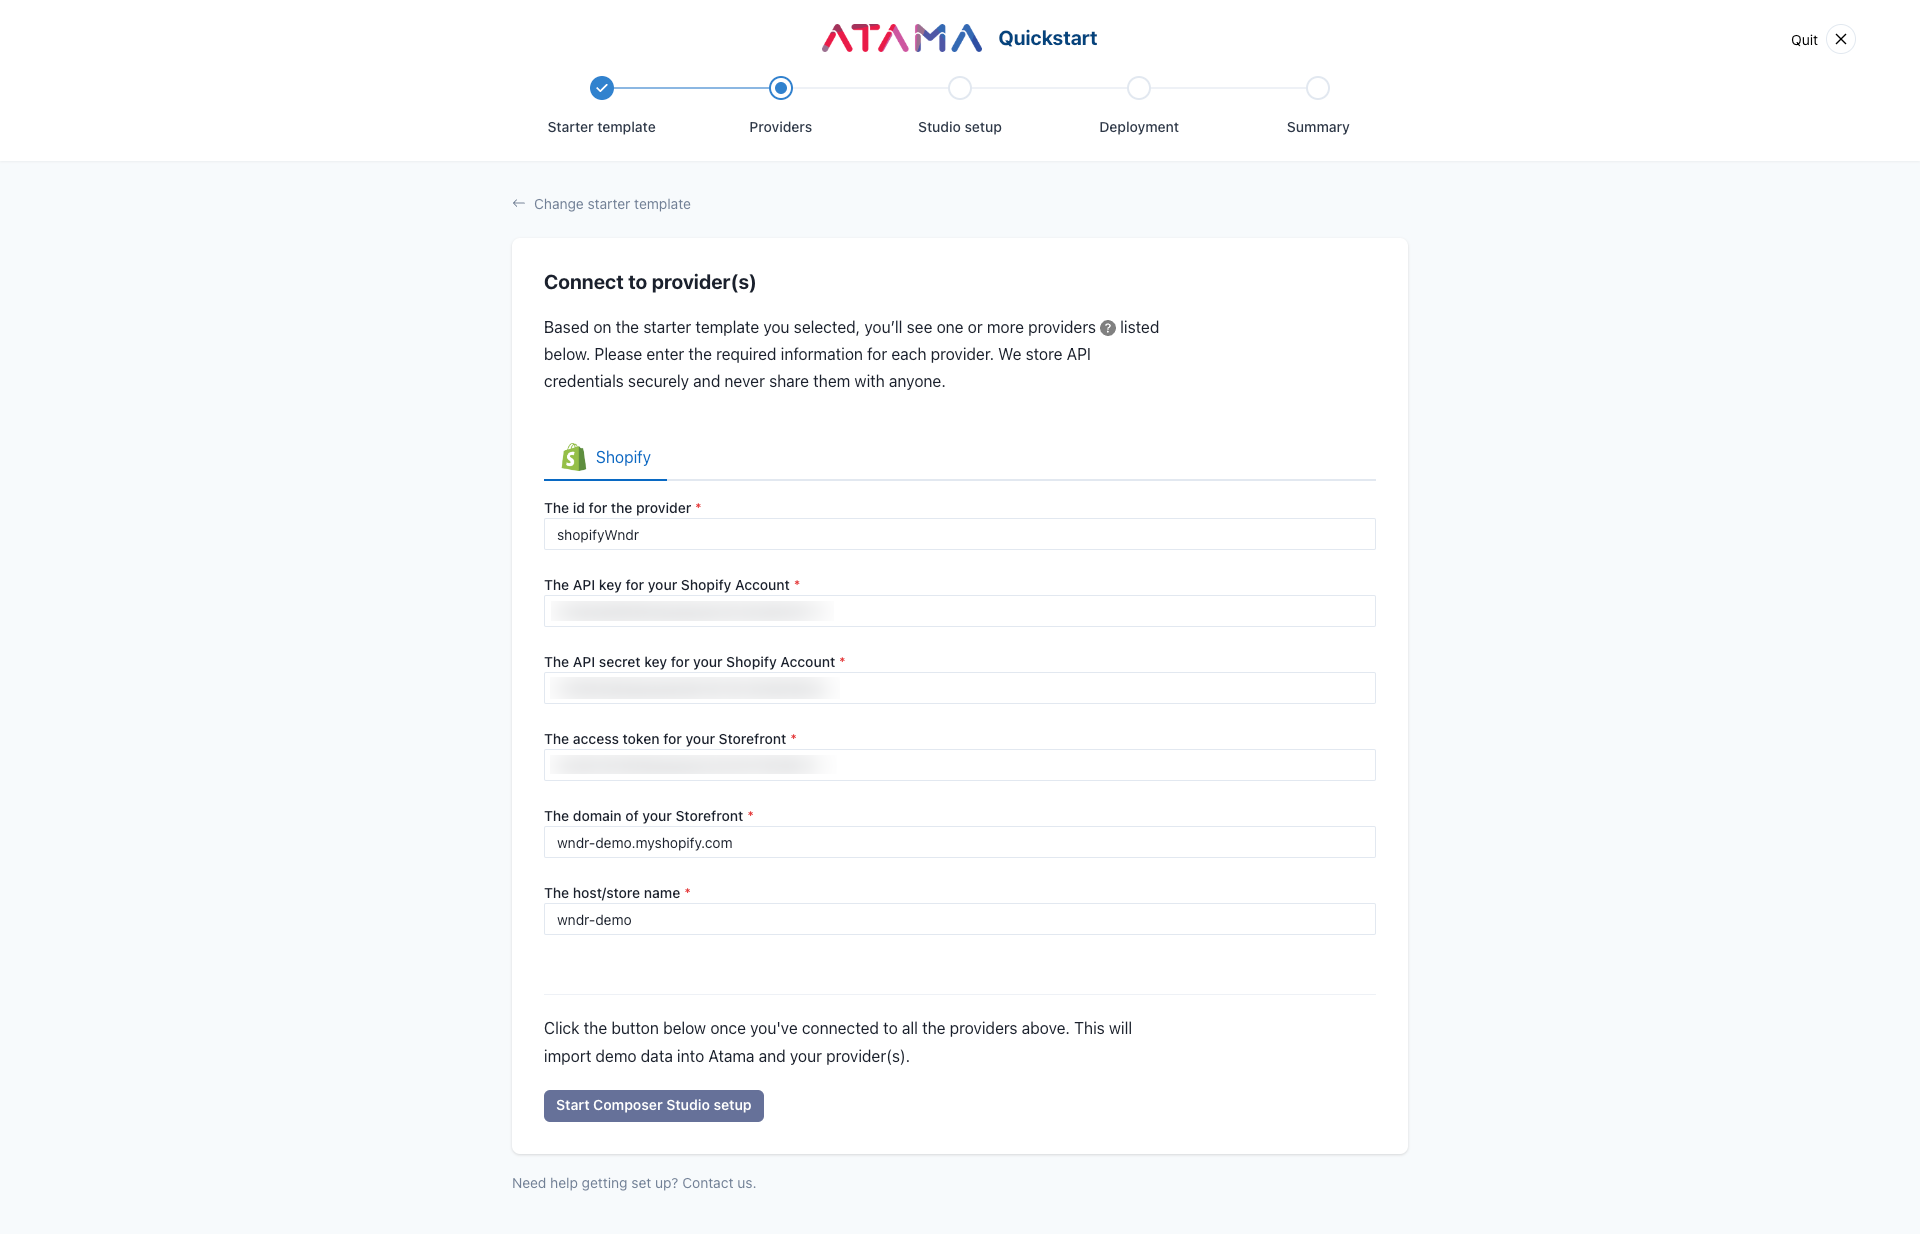
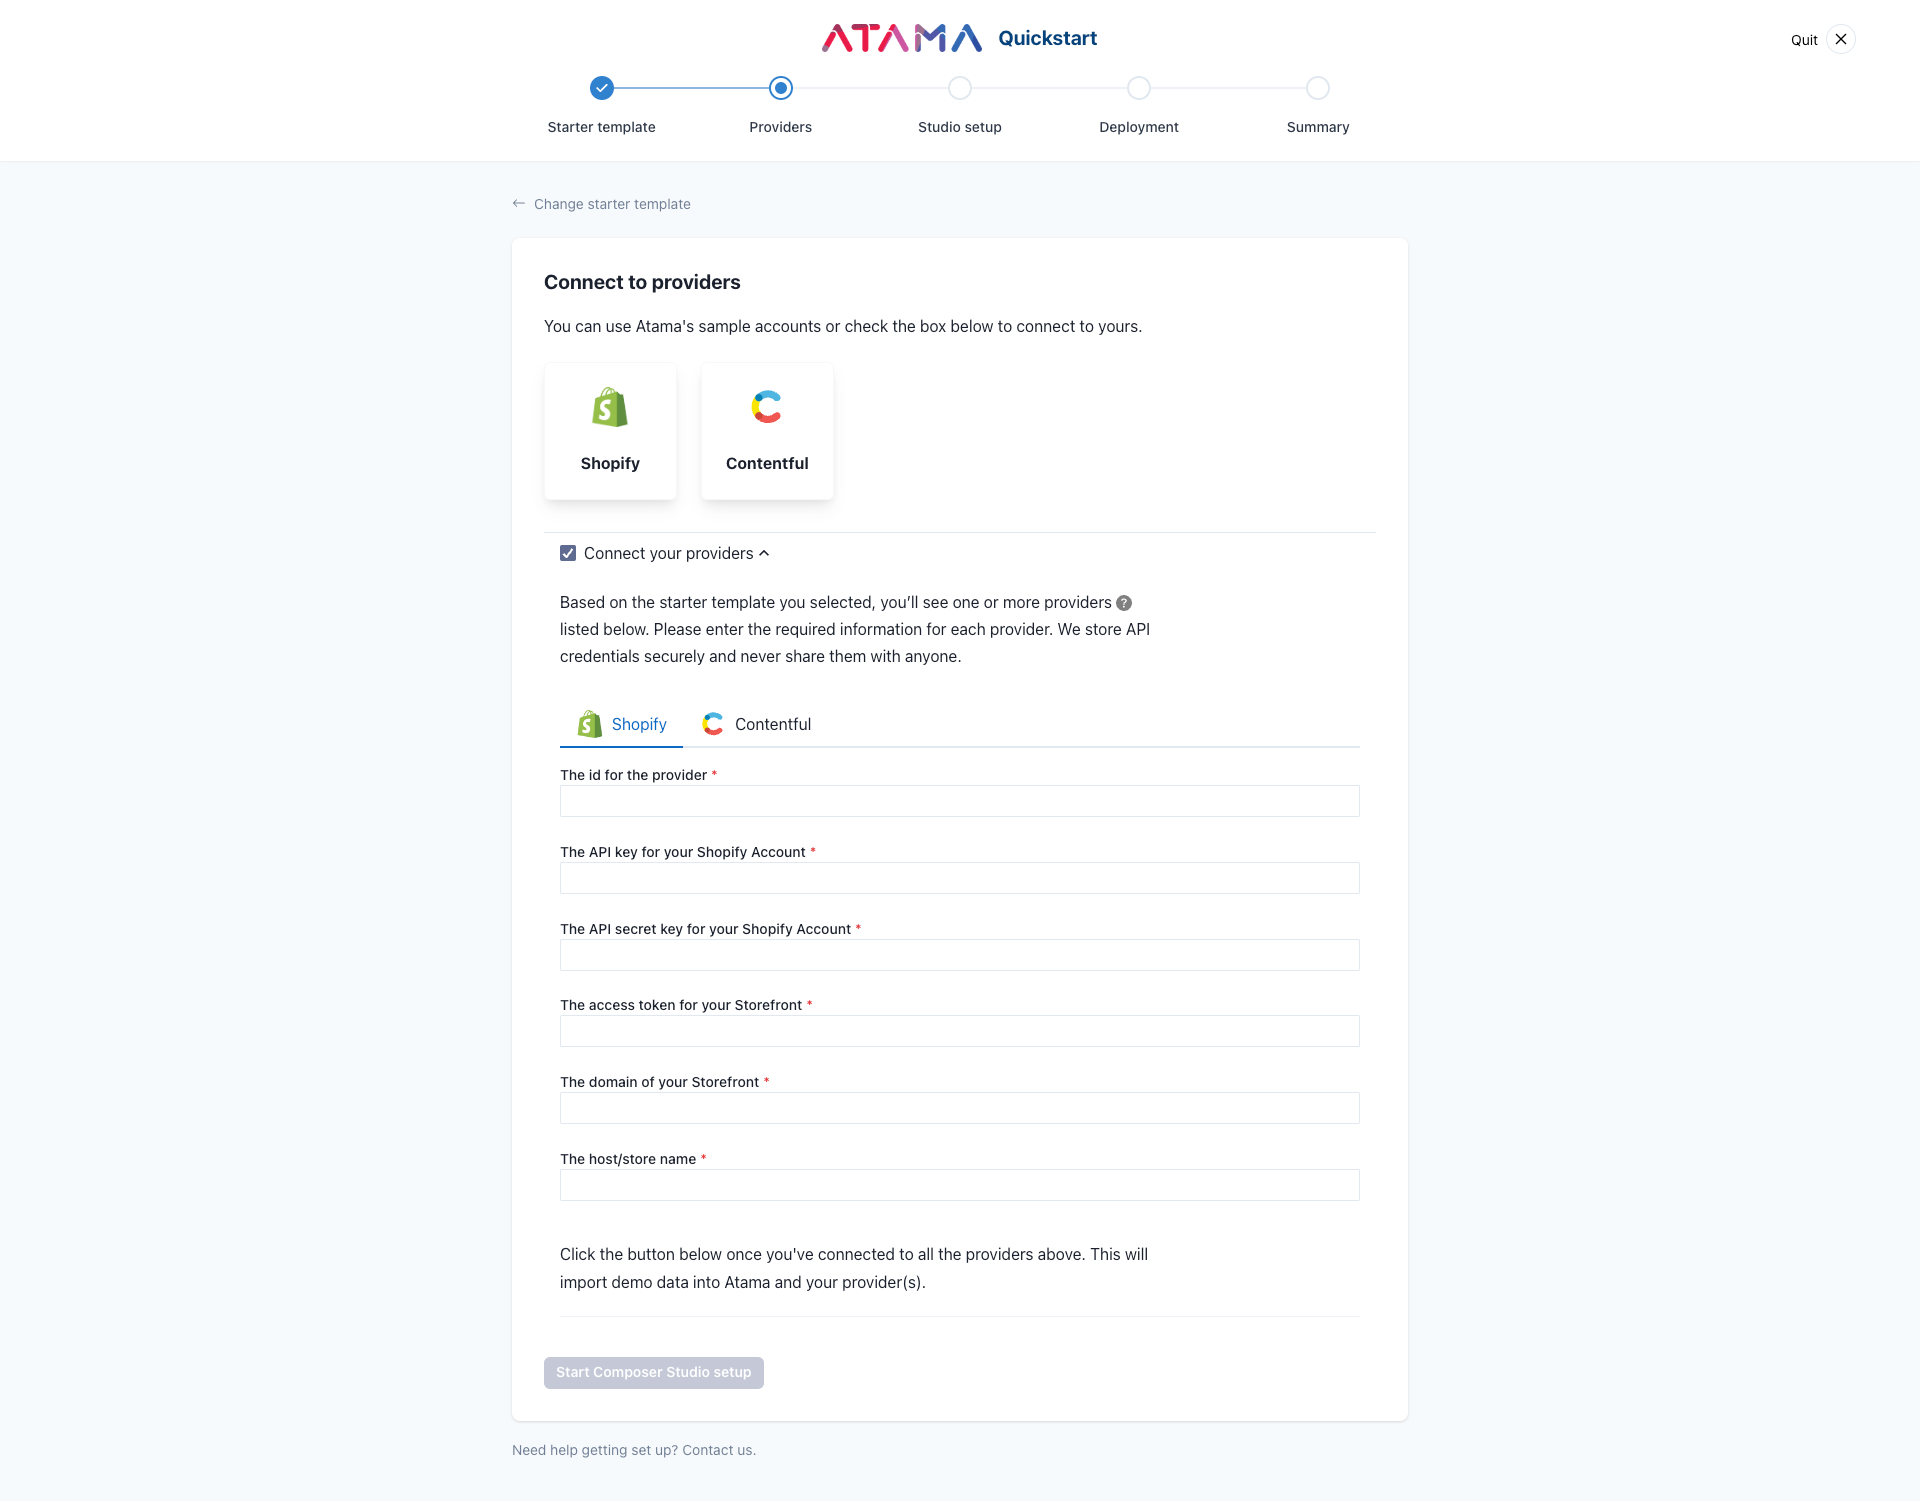
fix: update quickstart screenshots and call out new way to use Atama's accounts

diff --git a/docs/getting-started/quickstart/index.md b/docs/getting-started/quickstart/index.md
@@ -3,7 +3,6 @@ sidebar_position: 1
 ---
 
 # Quickstart
-
 A composable orchestration platform like Atama Composer has a lot of moving pieces. If you're new to Atama, we recommend you start with this [introduction](../../getting-started/README.md#overview).
 
 It may seem overwhelming to get started but don't worry, we've got you covered. If you need help at any point during the process, don't hesitate to [contact us](https://www.atama.co/contact-us).
@@ -27,32 +26,49 @@ The quickstart guide lets you make a series of selections to put together your c
 ![Screenshot of quickstart start step](./Quickstart.png)
 
 ## Starter template
-The starter template defines what front-end and source system your website starts with. We may also import some demo content into your source system. You can change all this later.
+The starter template defines what front-end and source system your website starts with. If you choose to connect with your own account vs. our sample ones, we may also import some demo content into your source system. This ensures that we can create a nice end-to-end demo experience. You can easily change everything that's created later.
 
-If you are not interested in importing demo data into Atama and your source system, you may skip the quickstart altogether. Simply click the "Quit" button in the upper right hand corner.
-
+If you prefer to explore and setup Composer by yourself, you may skip the quickstart altogether. Simply click the "Quit" button in the upper right hand corner.
 
 ### Available starter templates
 ![Screenshot of template step](./Select-Template-Quickstart-Atama-Composer.png)
 
-#### Commerce Landing Page Demo
-This template ships with a commerce frontend (Hydrogen) that lets marketers create landing pages with content being provided by Contentful. The commerce functionality (product listing + detail pages, cart, checkout, etc.) is provided by the respective commerce engine (Shopify) that the front end integrates with outside of Atama.
+#### Commerce Landing Page
+This template ships with a commerce frontend (Hydrogen) that lets marketers create landing pages with content being provided by Contentful. The commerce functionality (product listing + detail pages, cart, checkout, etc.) is provided by Shopify and the front end integrates with it outside of Atama.
+* Providers: Contentful
+* Frontend: Hydrogen
 
-To go through the quickstart, you'll need the following accounts which should be available for free:
-* [Contentful](https://www.contentful.com/) account
-* [Vercel](https://vercel.com/) account
-* A GitHub, GitLab, or Bitbucket account
+#### Full Commerce Page
+The difference for this template compared to the "Commerce Landing Page" template is that the commerce functionality (product listing + detail pages, cart, etc.) is using business capabilities managed in Atama. That level of abstraction can come in handy later when you want to test and migrate to use a different commerce provider.
+* Providers: Contentful, Shopify
+* Frontend: Remix
+
+This template shows the value of Atama Composer the best.
+
+#### Marketing Landing Page
+As the name implies, marketers can create landing pages with content being provided by Contentful.
+* Providers: Contentful
+* Frontend: Next.js
+
+These are just starting points so you can get a better feel for Atama Composer. All templates come with a handful of basic React components. You can easily add additional components, services, and front ends (channels) later.
 
 :::info
 
-More templates coming soon. If you're looking for something in particular, please [contact us](https://www.atama.co/contact-us).
+We're always looking to add more useful templates. If you're looking for something in particular, please [contact us](https://www.atama.co/contact-us).
 
 :::
 
 ## Providers
 Atama Composer connects to source systems via their API. We have a pattern called [providers](../../composer-core/providers/README.md) to do this.
 
-Based on the starter template you selected, you'll see one or more providers listed on this step. Some providers allow OAuth authentication and for others you'll need to provide a username/password or API key directly. We store API keys securely and never share them with anyone.
+Based on the starter template you selected, you'll see one or more providers listed on this step.
+
+Some providers allow OAuth authentication and for others you'll need to provide a username/password or API key directly. We store API keys securely and never share them with anyone.
+
+If you don't want to sign up for your own demo accounts, you can use Atama's. You won't be able to edit any content but it's a quick way to get familiar with Atama Composer.
+
+![Screenshot of using Atama's accounts](./Provider-connect-Atama-account-Quickstart.png)
+By default, we'll use Atama's demo accounts as shown here. If you would rather connect to your own accounts, click the "Connect your providers" checkbox.
 
 ![Screenshot of necessary Contentful connection](./Provider-connect-Quickstart.png)
 Contentful is an example of a provider that uses OAuth to authenticate. Click the "Connect to Contentful" button to go through the authentication flow.
@@ -60,7 +76,10 @@ Contentful is an example of a provider that uses OAuth to authenticate. Click th
 ![Screenshot of required Shopify properties](./Provider-Shopify-Quickstart.png)
 The Shopify provider requires you to enter API information manually.
 
-![Screenshot of establishing Contentful connection](./Provider-Contentful-Quickstart.png)
+![Screenshot of logging in with Contentful](./Provider-Contentful-Quickstart.png)
+To start the OAuth flow, log into the service with your account.
+
+![Screenshot of authorizing Contentful connection](./Provider-Contentful-authorize-Quickstart.png)
 During the OAuth flow, make sure you grant Atama the requested permissions. Otherwise, we won't be able to properly import demo content or read data.
 
 ![Screenshot of Contentful workspace selection](./Provider-Contentful-connected-Quickstart.png)
@@ -70,7 +89,6 @@ If you have multiple Contentful workspaces, make sure to select the one you want
 This is what a successful OAuth connection looks like.
 
 ## Studio setup
-
 The data import step sets up Composer Studio so it's ready to use. The details of what it does depend on the template you selected. For most templates, it will import some demo content into your source system. Based on that, we can then create demo business capabilities and experiences.
 
 1. Setting up Composer Studio
